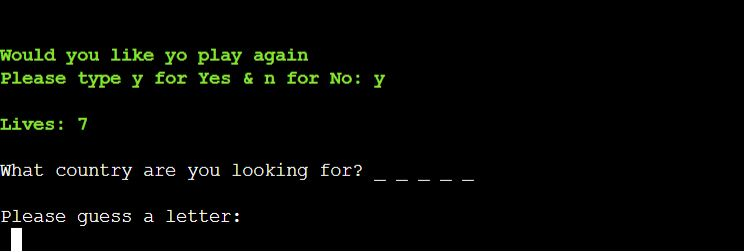
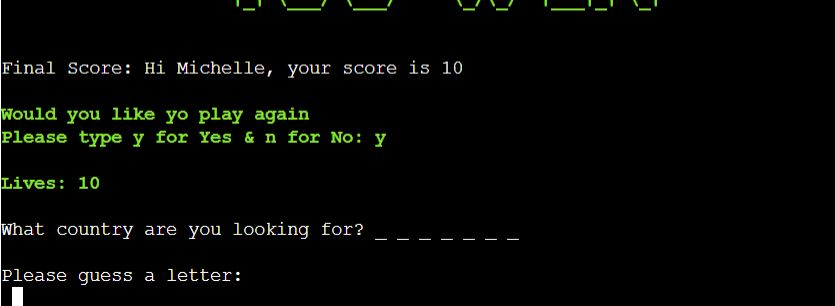
Doc: Update the built-in libraries section of the README file

diff --git a/run.py b/run.py
@@ -3,7 +3,7 @@ Used for libraries and imports
 """
 import random  # Randomly selects a word for the game
 import os  # Used to clear screen
-import gspread
+import gspread  # Access google sheets
 from google.oauth2.service_account import Credentials
 import pyfiglet  # import pyfiglet module for ascii art
 import colorama  # Adds color to game text

diff --git a/README.md b/README.md
@@ -176,13 +176,15 @@ For all user inputs, the game runs a validation check to ensure the input is val
 ![game starts screen](assets/images/number-entered.jpg)
 
 ### Win game
-*   When the user correctly guesses the name of the country within their number of lives, they will be presented with a message saying they won
+*   When the user correctly guesses the name of the country within their number of lives, they will be presented with a message saying they won 
+*   The user will also recieve a personalised message giving you a score for playing the game
 *   The user will be asked if they want to play again
 
 ![win message](assets/images/win-message.jpg)
 
 ### Game Over
 *   When the user is unable to guess the name of the country within their number of lives, they will be presented with a message saying game over and identifing the word the user was trying to guess.
+*   The user will also recieve a personalised message giving you a score for playing the game
 *   The user will be asked if they want to play again
 
 ![game over message](assets/images/game-over-message.jpg)
@@ -195,10 +197,15 @@ For all user inputs, the game runs a validation check to ensure the input is val
 
 ![play again - yes](assets/images/play-again-yes-screen.jpg)
 
-*   If they select N for No, they will be presented with the welcome screen
+*   If they select N for No, the user will be presented with a message advising the user that they are exiting the program
 
 ![play again - No](assets/images/play-again-no-screen.jpg)
 
+### The users score
+*   Each time the user wins a game, they will recieve 10 points, if you user does not guess the word in the correct number of lives, there will receive 0 points.
+*   Once the user finishes the game, the points are saved in a googlesheet.
+
+![google sheet](assets/images/scores-googlesheet.jpg)
 
 ### Future features to be implemented
 
@@ -348,13 +355,17 @@ Scroll to the bottom of the deploy page and select preferred deployment type:
 
 **Built-in Python Libraries**
 
+* gspread and google-auth
+
+To use a Google Sheets API, gspread and google-auth were imported. *google-auth* is needed to access our Google Cloud project, to connect spreadsheet with the project. The *gspread* library is needed to access, update and retrieve data in our spreadsheet
+
 * random
 
-The random library was imported to access the built-in method of generating a random word selection from a difined list of words. The word selected is the secret words the user must gusess in the game.
+The *random* library was imported to access the built-in method of generating a random word selection from a difined list of words. The word selected is the secret words the user must gusess in the game.
 
 *   os
 
-The os library was imported to create a function to utilise the os.system to clear the terminal. This supports a positive user experience on game replay by clearing the previous gameplay and making the screen clearer and more structured.
+The *os* library was imported to create a function to utilise the os.system to clear the terminal. This supports a positive user experience on game replay by clearing the previous gameplay and making the screen clearer and more structured.
 
 **Other**
 
